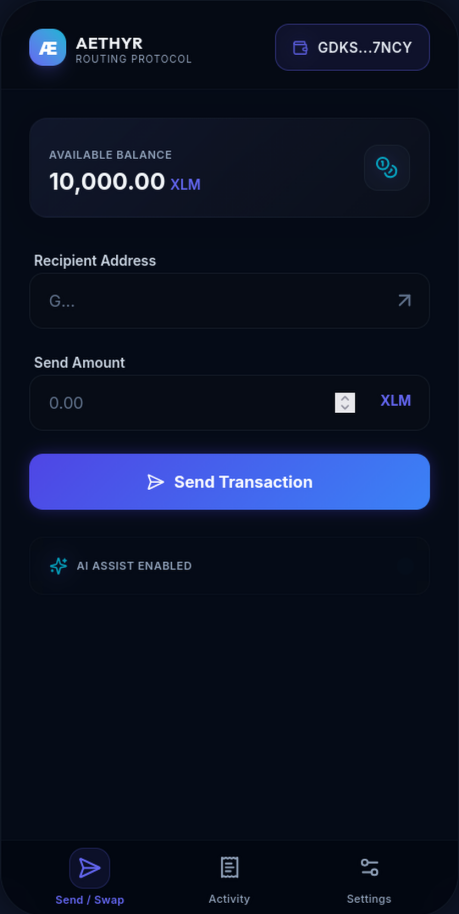
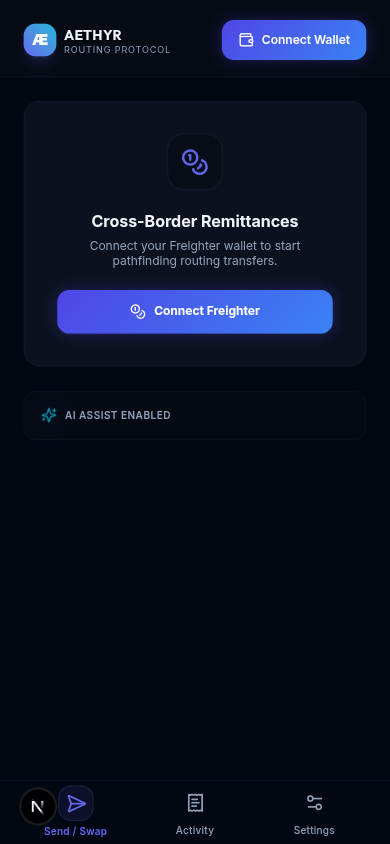
docs: transition agent UI verification to Playwright MCP and update screenshots

diff --git a/docs/AGENTS.md b/docs/AGENTS.md
@@ -118,8 +118,9 @@ RULES:
 4. Run the test suite:
    - For Rust: cargo test
    - For Frontend: npm run test (or vitest run)
-5. Execute the Playwright UI screenshot script:
-   python /home/pablo-pica/.gemini/antigravity-cli/skills/webapp-testing/scripts/with_server.py --server "npm run dev" --port 3000 -- python .agents/scripts/verify_ui.py
+5. Execute Playwright UI screenshot capture using Playwright MCP:
+   - Ensure the local dev server is running (`npm run dev`).
+   - Call the Playwright MCP server (`browser_run_code_unsafe` tool) with code that navigates to http://localhost:3000, resizes the viewport to 390x844, injects mock Stellar wallet APIs, and captures screenshots to `docs/assets/screen1.png` etc.
 6. Check if Vercel deployment config is correct.
 7. Edit docs/PROGRESS.md and mark met items with [x] and unmet items with [ ].
 8. If any check fails, append a detailed "⚠️ WARNING" section to the bottom of docs/PROGRESS.md explaining what is missing.

diff --git a/docs/PROGRESS.md b/docs/PROGRESS.md
@@ -85,8 +85,7 @@ Status: Warning: Missing User-dependent Assets
 ## ⚠️ Warning Logs
 
 - **Git Remote Push**: Pusher encountered authentication limits due to expired GitHub CLI credentials. Local commits are successfully recorded. Please run `gh auth login` and `git push origin dev-branch` when you return.
-- **Playwright Screenshot Script**: The automated UI screenshot capture script (`.agents/scripts/verify_ui.py`) could not be run because the Python `playwright` package was not installed in the execution environment.
-- **Missing Screenshots & Demo Video**: Screenshots (responsive views) and the 1-2 minute Loom walkthrough video link are required to complete the submission.
+- **Missing Screenshots & Demo Video**: Screenshots (responsive views) are successfully generated via Playwright MCP. The 1-2 minute Loom walkthrough video link is required to complete the submission.
 - **Production Build/Deploy**: Please trigger a new deployment to Vercel and verify the live URL functions correctly.
 
 ---
@@ -94,6 +93,7 @@ Status: Warning: Missing User-dependent Assets
 ## 📜 Audit Logs
 
 ### 2026-07-09
+- **Planner / Architect**: Audited `.agents` workspace configurations. Updated `.agents/rules/checker.md`, `.agents/workflows/verification-flow.md`, and `docs/AGENTS.md` to transition the UI screenshot flow from the local Python script to the Playwright MCP server, resolving the python package installation error. Successfully ran the Playwright MCP browser automation code to capture mobile screenshots.
 - **Checker**: Audited Phase 3 compliance. Confirmed existence of `aethyr-escrow` Rust contract and CI/CD config. All 7/7 Rust contract tests pass and all 20/20 frontend tests pass (including additional validateStellarAddress unit tests). PWA layouts, responsiveness, error handling and state indicators are fully implemented. Git log contains 52 conventional commits (exceeding 10+ requirement). Added Orange Belt submission assets placeholders to `README.md`. Updated status to `Warning: Missing User-dependent Assets` due to pending git push, missing screenshots, Loom walkthrough, and Vercel release link.
 - **Builder**: Added a unit test case for `validateStellarAddress` verifying handling of non-string inputs (null, undefined, etc.) and invalid strings containing special/non-alphanumeric characters.
 - **Builder**: Implemented JTM Orange Belt features: